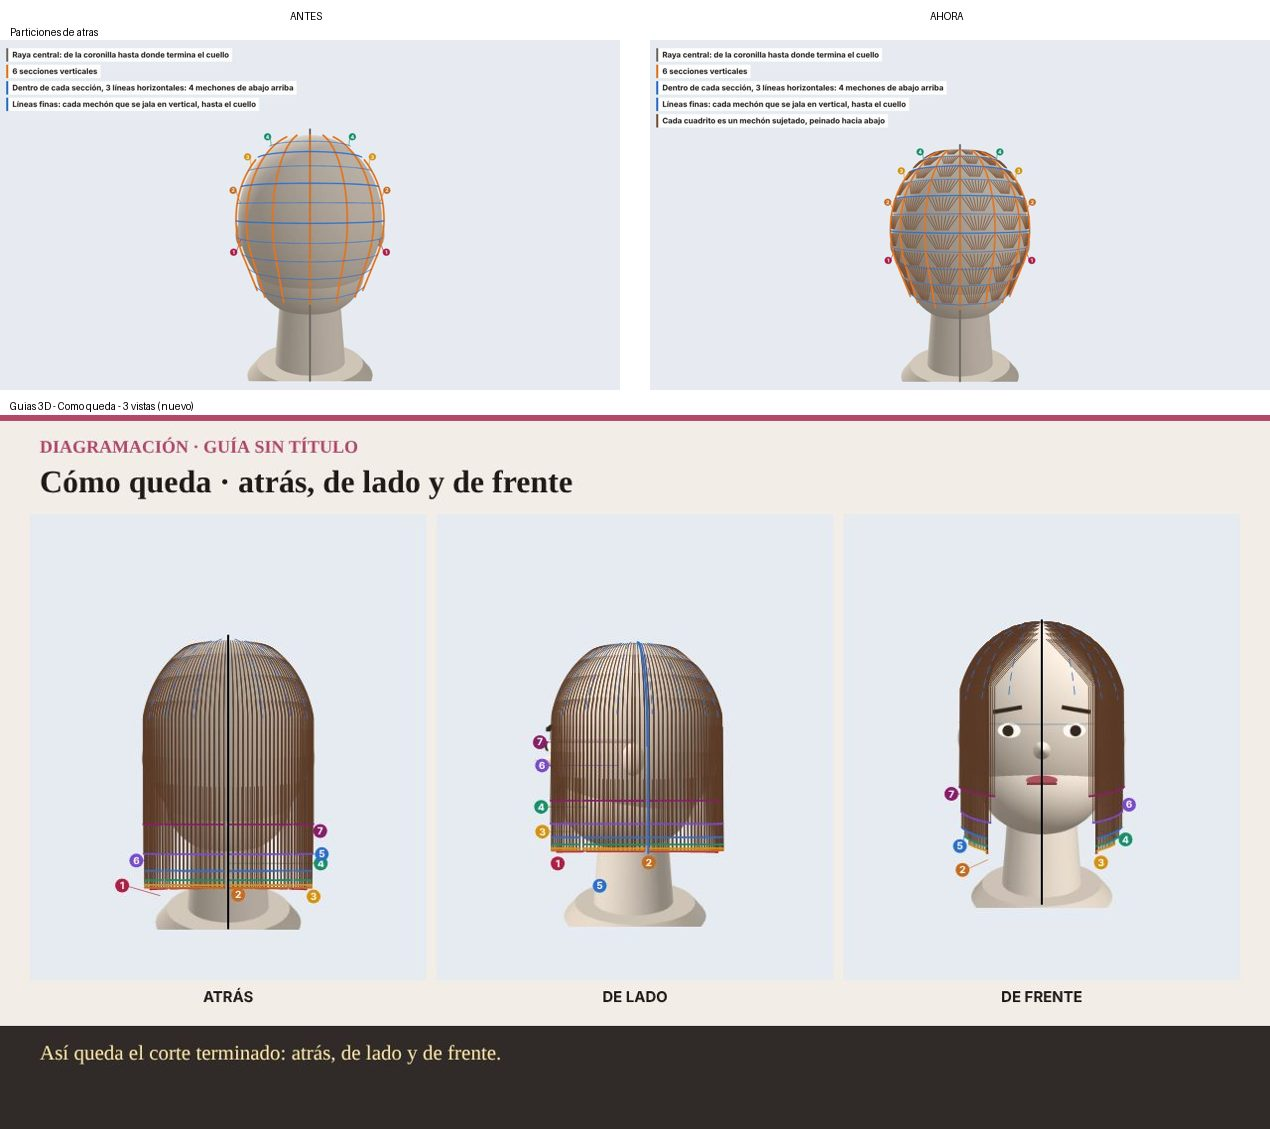
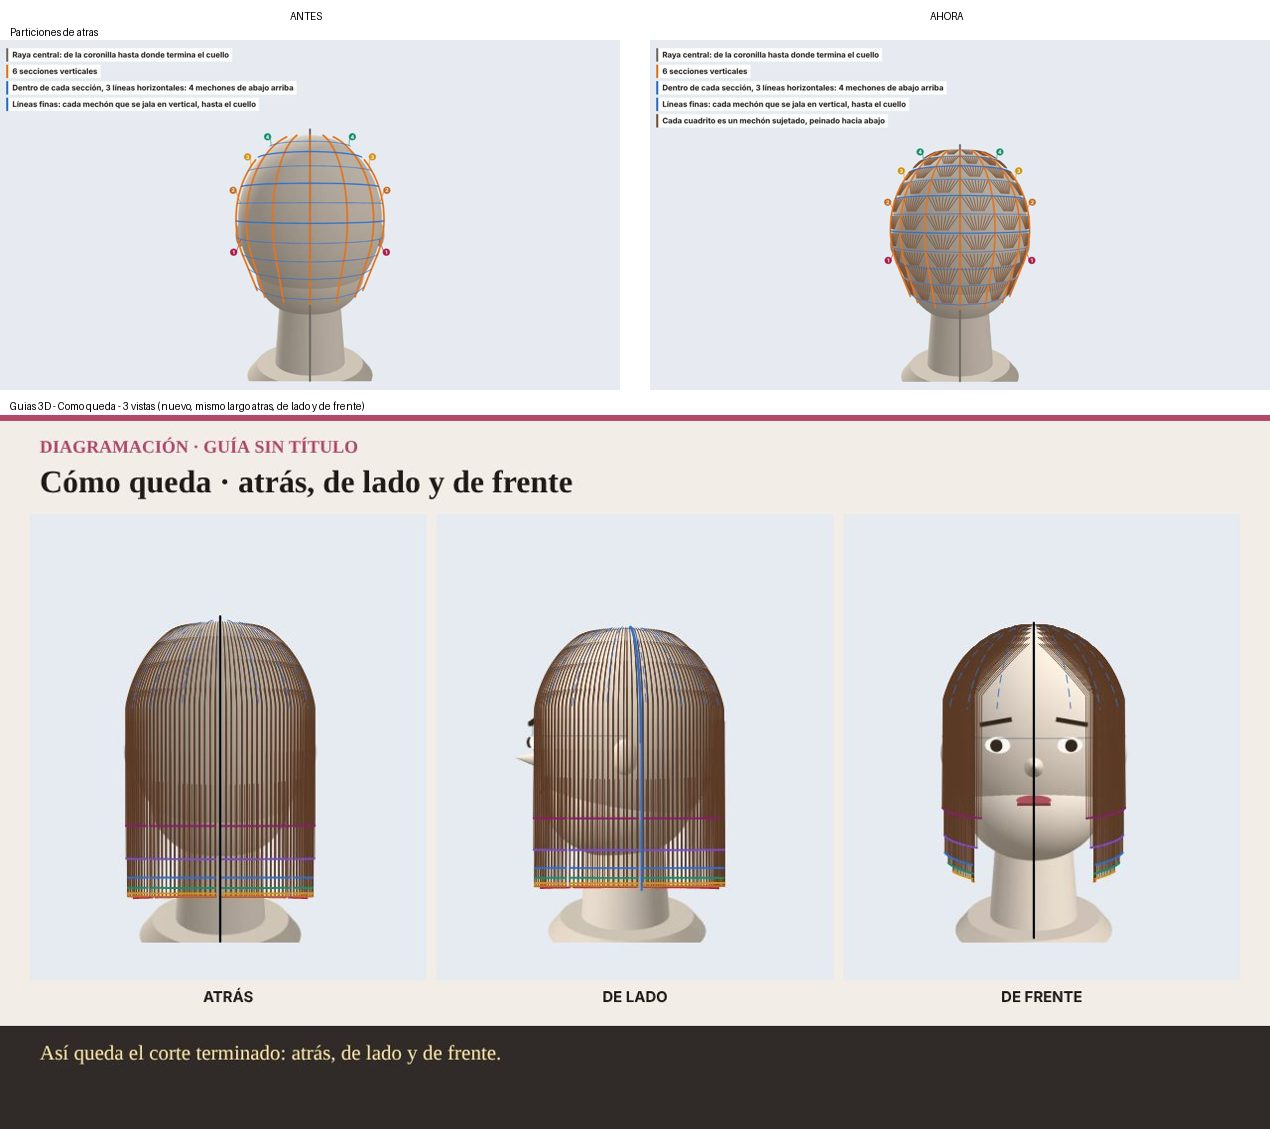
Guías 3D: de lado el mismo largo que atrás y tres vistas a la misma escala
Claude-Session: https://claude.ai/code/session_01CTJE1s2rN29Pz2284bjME9

diff --git a/b6_guias_3d_diagrama.js b/b6_guias_3d_diagrama.js
@@ -91,8 +91,14 @@
       /* tres cabezas reducidas con el corte terminado; sin rótulos ni reloj, para que se vea limpio (las escenas enteras siguen igual) */
       x.fillText(e.t, 40, 78);
       var NOM3 = { nuca: 'ATRÁS', lateral: 'DE LADO', frente: 'DE FRENTE' }, w3 = (W - 80) / 3;
+      /* las tres con el mismo recorte, justo alrededor del cabello y la cabeza: la misma escala, así el largo se compara de verdad.
+         Solo el corte: sin rótulos, reloj ni numeritos (las escenas enteras los siguen llevando) */
+      var limpio = function (z) { return (z.anim.tr || []).filter(function (T) { return T.k !== 'e' && T.k !== 'r' && T.k !== 'n' && !(T.k === 'l' && T.w === 1.1); }); };
+      var bb = [1e9, 1e9, -1e9, -1e9];
+      TRES.forEach(function (z) { limpio(z).forEach(function (T) { var q = T.k === 'm' && T.f ? T.f[T.f.length - 1] : (T.k === 'l' || T.k === 's') ? T.p : null; if (!q) return; for (var j = 0; j + 1 < q.length; j += 2) { bb[0] = Math.min(bb[0], q[j]); bb[1] = Math.min(bb[1], q[j + 1]); bb[2] = Math.max(bb[2], q[j]); bb[3] = Math.max(bb[3], q[j + 1]); } }); });
+      var cU = bb[0] < bb[2] ? [bb[0] - 30, bb[1] - 30, bb[2] - bb[0] + 60, bb[3] - bb[1] + 90] : [190, 0, 900, 720];
       TRES.forEach(function (z, i) {
-        var a3 = Object.assign({}, z.anim, { banda: undefined, tr: (z.anim.tr || []).filter(function (T) { return T.k !== 'e' && T.k !== 'r'; }) });
+        var a3 = Object.assign({}, z.anim, { crop: cU, banda: undefined, tr: limpio(z) });
         DG.pinta(x, a3, IMG[z.vista], 30 + i * (w3 + 10), 100, w3, 470, 1);
         x.fillStyle = '#1F1B18'; x.font = '700 15px system-ui,sans-serif'; x.textAlign = 'center'; x.fillText(NOM3[z.vista], 30 + i * (w3 + 10) + w3 / 2, 592); x.textAlign = 'left';
       });

diff --git a/Estudio Universal Pro.dc.html b/Estudio Universal Pro.dc.html
@@ -53,11 +53,11 @@ input[type=range]{accent-color:#a855f7}
 <script src="./b6_examen.js?v=1798300000003"></script>
 <script src="./b6_volantes.js?v=1792400000000"></script>
 <script src="./b6_boton_biblioteca.js?v=1795800000002"></script>
-<script src="./b6_pelu_diagrama.js?v=1799200000010"></script>
+<script src="./b6_pelu_diagrama.js?v=1799200000011"></script>
 <script src="./b6_pelu_geometria.js?v=1798900000001"></script>
 <script src="./b6_pelu_cortes_catalogo.js?v=1797000000015"></script>
 <script src="./b6_pelu_calculo.js?v=1796500000001"></script>
-<script src="./b6_guias_3d_diagrama.js?v=1799200000003"></script>
+<script src="./b6_guias_3d_diagrama.js?v=1799200000004"></script>
 <script src="./b6_pelu_escaner_cortes.js?v=1798300000033"></script>
 <script src="./b6_pelu_laboratorio.js?v=1797600000007"></script>
 <script>
@@ -204,7 +204,7 @@ window.EU_DIFERIDOS = ["./b6_curriculo.js?v=1798300000003",
 "./b6_portadas_3.js?v=1795000000007",
 "./b6_portadas_editorial.js?v=1798300000003", "./b6_portadas_plantillas.js?v=1798500000002",
 "./b6_curso_premium.js?v=1798800000001",
-"./b6_pelu_diagrama.js?v=1799200000010",
+"./b6_pelu_diagrama.js?v=1799200000011",
 "./b6_curso_animado.js?v=1798800000001",
 "./b6_pelu_particiones.js?v=1798300000033",
 "./b6_color_cerebro_1.js?v=1798300000020",

diff --git a/b6_pelu_diagrama.js b/b6_pelu_diagrama.js
@@ -862,7 +862,10 @@
     }
     /* 26-10-2026 (Fátima: «ese corte es redondo, no cuadrado»): en línea recta, atrás y de lado, donde termina cada capa se ve una
        línea recta y horizontal (como yPlano de escQueda); antes la misma altura sobre la cabeza redonda se veía en arco, redonda */
-    var Pc1 = P(NUCA, 1.35, 1.05);
+    /* 8-11-2026 (Fátima: «de lado se ve más corto; atrás, de lado y delante al mismo nivel, emparejado»): la referencia es el punto que
+       mira a la cámara (atrás, el centro de la nuca; de lado, el lado de la oreja): antes de lado se tomaba la nuca, en el borde lejano
+       de la cabeza, y por la perspectiva el cabello de lado quedaba más corto que el de atrás */
+    var Pc1 = v === 'lateral' ? P(seVe(v, DER, 1.35) ? DER : IZQ, 1.35, 1.05) : P(NUCA, 1.35, 1.05);
     function yRecta(ph, y) {
       if (lin !== 'recta' || frente) return y;
       var b = P(ph, 1.35, 1.05), obj = pr(v, V3(Pc1.x * 1.03, y, Pc1.z * 1.03))[1], lo = y - 2, hi = Math.max(y, b.y);

diff --git a/CLAUDE.md b/CLAUDE.md
@@ -276,4 +276,4 @@ y abrir `http://localhost:8000/Estudio%20Universal%20Pro.dc.html`.
   - Frente con capas (`escFrente`): cada línea va recta desde su raíz hasta donde se corta (`dRe`), con su número debajo y la línea de corte que une las puntas.
   - «Cómo queda · de lado» (`escQuedaLineas`, `lat`): la línea azul de oreja a oreja se ve toda la escena y baja hasta donde termina el cabello; detrás, lo de atrás sale ya cortado y quieto con las líneas de sus capas (`R.capas.pila`); delante se corta solo el lateral, mechón por mechón, con las capas del lateral (las de `escLateral`; rótulo «Capas del lateral: …»).
   - Medido: cortes A (0·45·90·135, vertical) y B (todo a 0°, en U), liso extremo, recto a 0° y 8 cortes del catálogo → 0 números encima, 0 fuera del lienzo, sin errores. Comparación con `main` en `screenshots/guias3d_8-11-2026.jpg`.
-- 8-11-2026 (Fátima: «que se visualice como si fuera un mechón que se sujetara desde cada cuadrito de la división de atrás»; «cómo queda el corte terminado: tres cabezas reducidas, de frente, de atrás y de lado»): `b6_pelu_diagrama.js` · `escParticionVertical`: al final de «Particiones de atrás» cada cuadrito (entre dos naranjas y dos azules, también los de abajo, casi en el cuello) se llena de cabello fino que nace en su borde de arriba y se junta un poco abajo, como un mechón sujetado y peinado hacia abajo, sin elevar; va debajo de las líneas y de los números. `b6_guias_3d_diagrama.js`: botón «◫ Cómo queda · 3 vistas» (y última escena de «▶ Todo»): tres cabezas reducidas con el corte terminado (atrás, de lado y de frente; una escena `queda_*` de cada vista, primero las normales y si no las de corte corto), en su fotograma final, sin rótulos ni reloj; las escenas «Cómo queda» de siempre no cambian. Medido: 39 cortes del catálogo, liso extremo y recto a 0° → 0 números encima, 0 fuera, sin errores. Comparación en `screenshots/guias3d_cuadritos_tres_vistas_8-11-2026.jpg`.
+- 8-11-2026 (Fátima: «que se visualice como si fuera un mechón que se sujetara desde cada cuadrito de la división de atrás»; «cómo queda el corte terminado: tres cabezas reducidas, de frente, de atrás y de lado»): `b6_pelu_diagrama.js` · `escParticionVertical`: al final de «Particiones de atrás» cada cuadrito (entre dos naranjas y dos azules, también los de abajo, casi en el cuello) se llena de cabello fino que nace en su borde de arriba y se junta un poco abajo, como un mechón sujetado y peinado hacia abajo, sin elevar; va debajo de las líneas y de los números. `b6_guias_3d_diagrama.js`: botón «◫ Cómo queda · 3 vistas» (y última escena de «▶ Todo»): tres cabezas reducidas con el corte terminado (atrás, de lado y de frente; una escena `queda_*` de cada vista, primero las normales y si no las de corte corto), en su fotograma final, con el mismo recorte justo alrededor del cabello (misma escala) y sin rótulos, reloj ni numeritos; las escenas «Cómo queda» de siempre no cambian. «Cómo queda · de lado» (`escQuedaLineas`, `yRecta`): la línea recta toma como referencia el lado que mira a la cámara (antes la nuca, en el borde lejano, y por la perspectiva el cabello de lado salía más corto que atrás); así atrás, de lado y delante quedan emparejados. Medido: 39 cortes del catálogo, liso extremo y recto a 0° → 0 números encima, 0 fuera, sin errores. Comparación en `screenshots/guias3d_cuadritos_tres_vistas_8-11-2026.jpg`.
